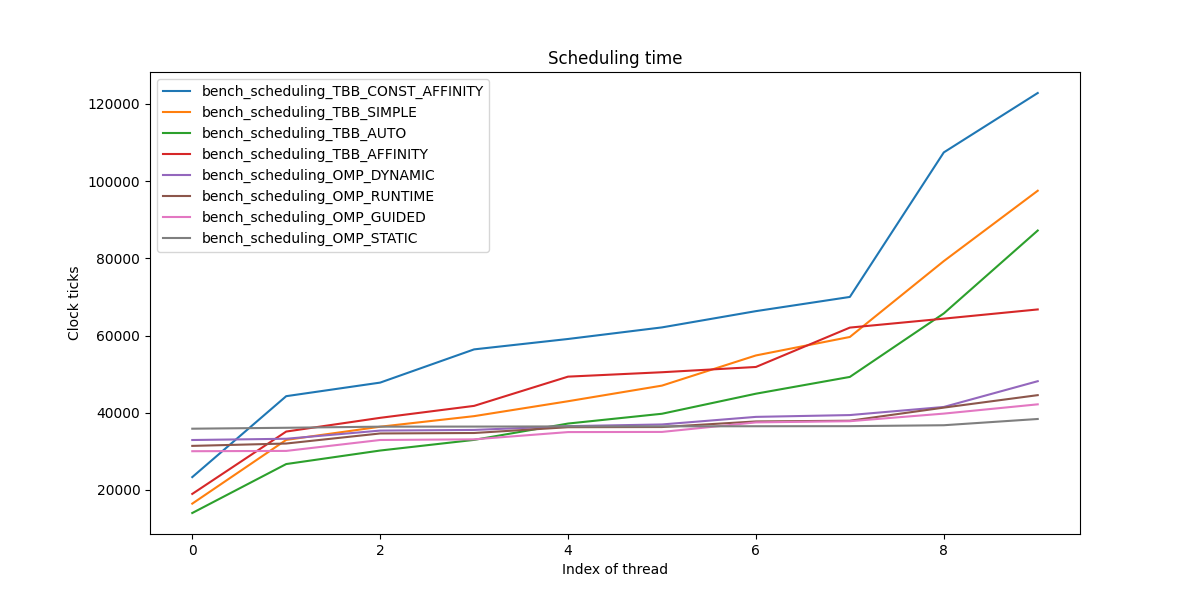
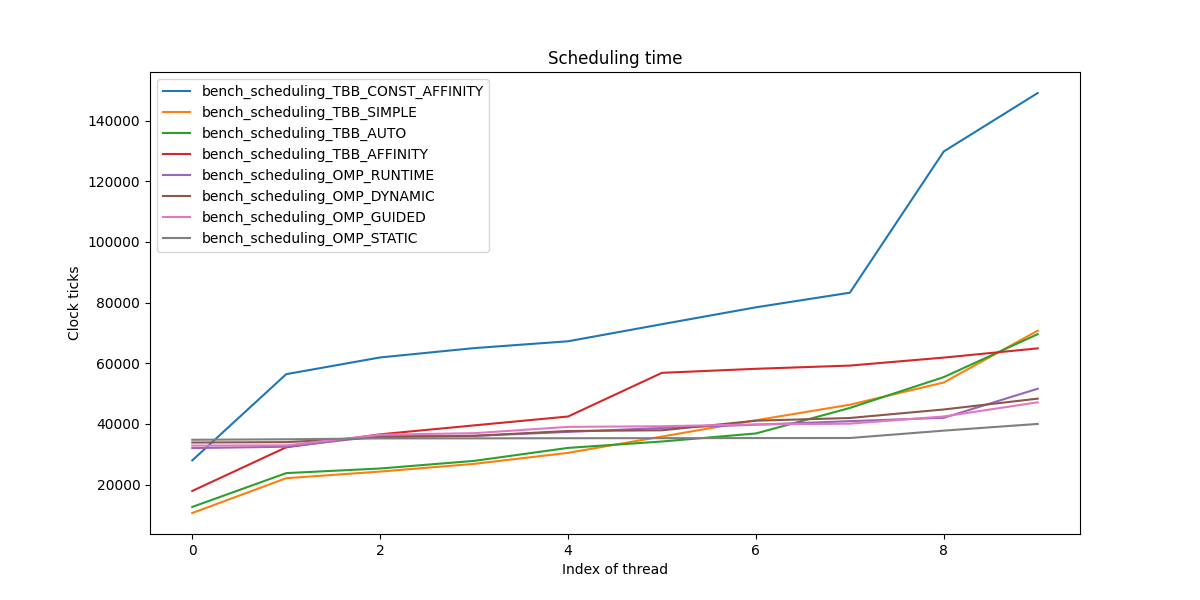
update sleep bench

diff --git a/scheduling_time/bench_scheduling.cpp b/scheduling_time/bench_scheduling.cpp
@@ -62,18 +62,17 @@ static thread_local TimeReporter timeReporter;
 static std::vector<uint64_t> runOnce(size_t threadNum) {
   auto start = Now();
 #if SCHEDULING_MEASURE_MODE == BARRIER
-  std::atomic<size_t> acquired = 0;
   std::atomic<size_t> reported = 0;
-  std::vector<uint64_t> times(threadNum);
+  std::vector<uint64_t> times;
+  times.reserve(threadNum);
   std::mutex timesMutex;
   ParallelFor(0, threadNum, [&](size_t i) {
     auto resultTime = Now() - start;
-    auto id = acquired.fetch_add(1);
     {
       // lock is aquired after time measurement
       // so we are not afraid of performance loss
       std::lock_guard<std::mutex> lock(timesMutex);
-      times[id] = resultTime;
+      times.push_back(resultTime);
     }
     reported.fetch_add(1);
     // it's ok to block here because we want
@@ -86,12 +85,22 @@ static std::vector<uint64_t> runOnce(size_t threadNum) {
   return times;
 #endif
 #if SCHEDULING_MEASURE_MODE == SLEEP
+  std::vector<uint64_t> times;
+  times.reserve(threadNum);
+  std::mutex timesMutex;
   ParallelFor(0, threadNum, [&](size_t i) {
-    timeReporter.ReportTime(Now() - start);
+    auto resultTime = Now() - start;
+    {
+      // lock is aquired after time measurement
+      // so we are not afraid of performance loss
+      std::lock_guard<std::mutex> lock(timesMutex);
+      times.push_back(resultTime);
+    }
     // sleep for emulating work
     std::this_thread::sleep_for(std::chrono::seconds(1));
   });
-  return TimeReporter::EndEpoch();
+  std::lock_guard<std::mutex> lock(timesMutex);
+  return times;
 #endif
 #if SCHEDULING_MEASURE_MODE == MULTITASK
   auto tasksNum = threadNum * 100;
@@ -135,7 +144,7 @@ int main(int argc, char **argv) {
   }
   runOnce(threadNum); // just for warmup
 
-  size_t repeat = 100;
+  size_t repeat = 20;
   std::vector<std::vector<uint64_t>> results;
   for (size_t i = 0; i < repeat; i++) {
     auto times = runOnce(threadNum);
